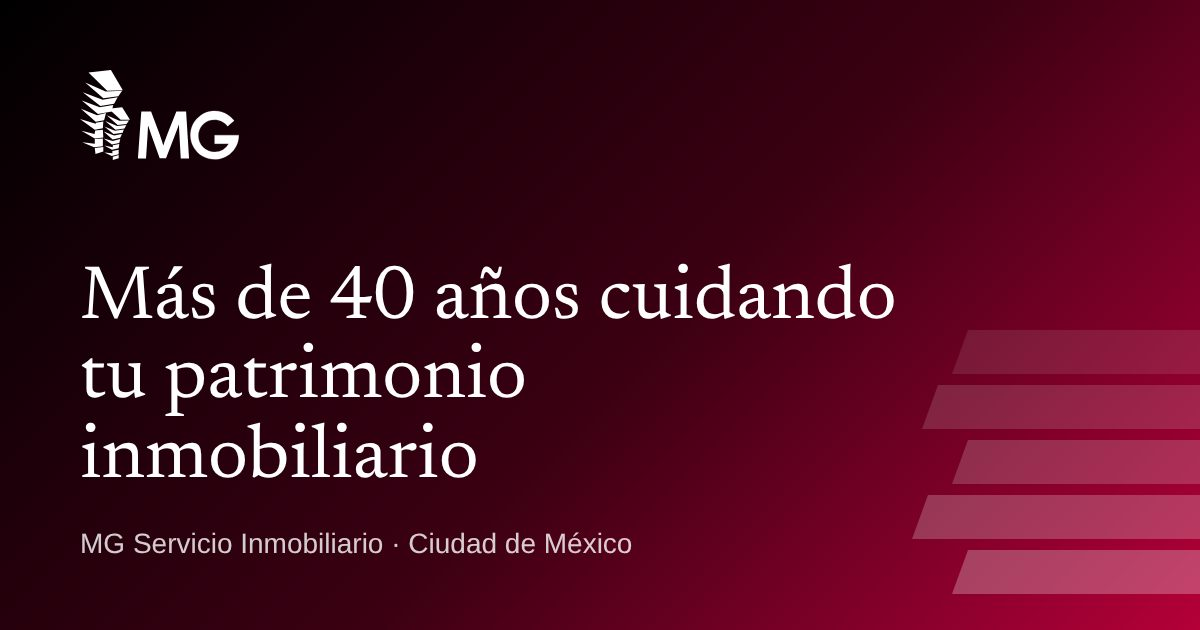
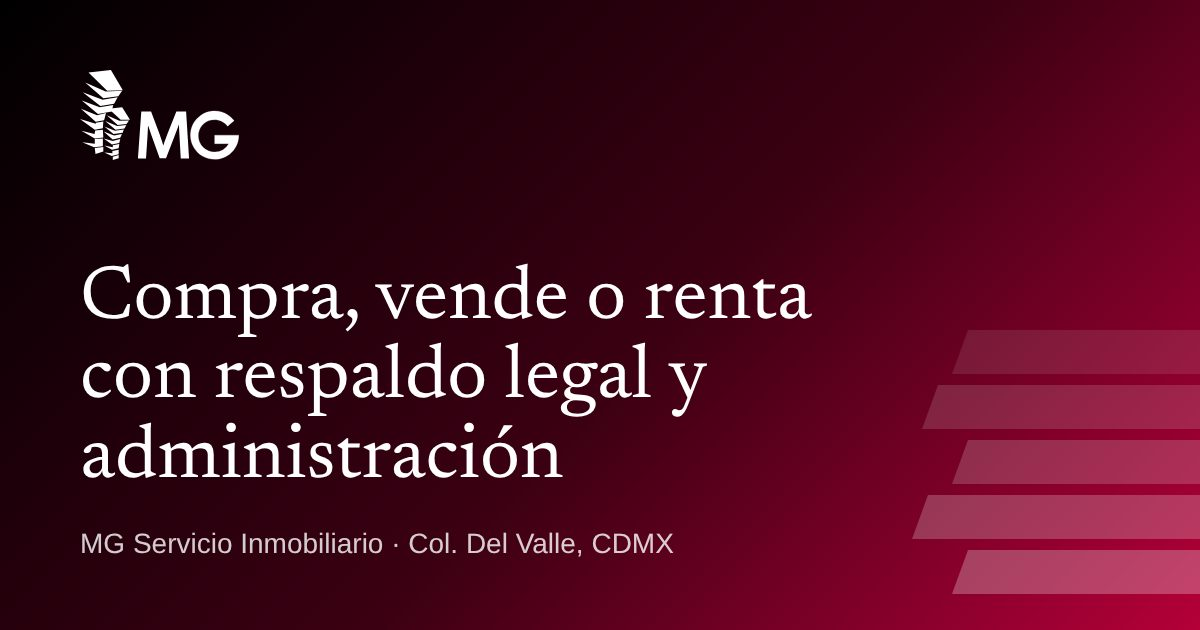
Copy reescrito con buenas prácticas para inmobiliarias
- Subtítulos, servicios, principios, contacto, formulario y estados vacíos más concretos y centrados en quien lee; botones con acción y resultado.
- Menos repeticiones ("40 años" y "de la primera visita a la firma"); misión y presentación de la empresa intactas.
- Title, description, manifest y JSON-LD con CDMX y propuesta clara; imagen para compartir actualizada.
- Hero: franja inferior con oficina, horario y teléfono; el motivo de losas respeta el 100% de pantalla.

Claude-Session: https://claude.ai/code/session_01HwvffBwo3MnvS5shEMdxbJ

Changed region(s): [[0.0617, 0.5429, 0.5858, 0.7841], [0.0617, 0.4222, 0.7708, 0.5429], [0.3392, 0.8444, 0.555, 0.9048]]

diff --git a/src/components/sections/Services.tsx b/src/components/sections/Services.tsx
@@ -8,17 +8,17 @@ const areas = [
     items: [
       {
         title: 'Compra y venta',
-        text: 'Asesoría en operaciones de propiedades residenciales y comerciales.',
-        points: ['Valuación profesional', 'Negociación', 'Documentación legal'],
+        text: 'Te acompañamos a comprar o vender una propiedad residencial o comercial.',
+        points: ['Valuación de la propiedad', 'Negociación', 'Documentación legal'],
       },
       {
         title: 'Renta',
-        text: 'Gestión de propiedades en renta con seguimiento de todo el proceso.',
+        text: 'Si tienes una propiedad para rentar, buscamos inquilino y formalizamos el contrato.',
         points: ['Búsqueda de inquilinos', 'Contratos legales', 'Administración'],
       },
       {
         title: 'Consultoría',
-        text: 'Para inversionistas y desarrolladores inmobiliarios.',
+        text: 'Para quien invierte o desarrolla y necesita datos antes de decidir.',
         points: ['Análisis de mercado', 'Estrategias de inversión', 'Estudios de factibilidad'],
       },
     ],
@@ -29,12 +29,12 @@ const areas = [
     items: [
       {
         title: 'Administración',
-        text: 'Administración de propiedades con mantenimiento y supervisión constante.',
+        text: 'Nos ocupamos de tu propiedad día a día, para que no tengas que hacerlo tú.',
         points: ['Mantenimiento', 'Cobros', 'Reportes mensuales'],
       },
       {
         title: 'Seguros',
-        text: 'Protección para tu patrimonio inmobiliario con seguros especializados.',
+        text: 'Aseguramos tu propiedad y te acompañamos si hay que reclamar.',
         points: ['Seguros de propiedad', 'Cobertura legal', 'Asesoría en reclamaciones'],
       },
     ],
@@ -45,7 +45,7 @@ const areas = [
     items: [
       {
         title: 'Asesoría legal',
-        text: 'Soporte legal especializado en transacciones inmobiliarias.',
+        text: 'Revisamos el papel de la operación antes de que firmes y te acompañamos si surge un conflicto.',
         points: ['Revisión de documentos', 'Trámites notariales', 'Resolución de conflictos'],
       },
     ],
@@ -59,8 +59,7 @@ export default function Services() {
         <Reveal className="max-w-3xl">
           <h2 className="h-section">Servicios</h2>
           <p className="mt-5 text-lg text-graphite">
-            Una sola oficina cubre las tres partes de una operación inmobiliaria. Así no pasas de un despacho a otro entre
-            la visita y la firma.
+            Una operación inmobiliaria tiene tres frentes: cerrar el trato, cuidar el papel y administrar la propiedad después. Aquí los atiende el mismo equipo.
           </p>
         </Reveal>
 
@@ -91,7 +90,7 @@ export default function Services() {
                 <div className="mt-6 border-t border-[#d9d9d9] pt-8">
                   <p className="font-display text-2xl leading-snug">¿No sabes qué necesitas? Cuéntanos tu caso y te decimos por dónde empezar.</p>
                   <a href="#contacto" className="btn btn-ink mt-6">
-                    Cuéntanos tu caso
+                    Pedir orientación
                   </a>
                 </div>
               )}

diff --git a/src/components/sections/Hero.tsx b/src/components/sections/Hero.tsx
@@ -39,11 +39,11 @@ export default function Hero({ featured }: { featured?: PublicProperty }) {
             ))}
           </h1>
           <p className="rise mt-7 max-w-xl text-lg leading-relaxed text-white/85 sm:text-xl" style={{ '--d': '0.45s' } as React.CSSProperties}>
-            Te acompañamos en la compra, venta, renta y administración de tu propiedad, de la primera visita a la firma.
+            Compra, vende o renta con la parte legal y la administración resueltas en una sola oficina de la Col. Del Valle.
           </p>
           <div className="rise mt-10 flex flex-col gap-3 sm:flex-row" style={{ '--d': '0.6s' } as React.CSSProperties}>
             <Link href="/propiedades" className="btn btn-brand">
-              Ver propiedades
+              Ver propiedades disponibles
               <ArrowRight className="arrow size-4" aria-hidden="true" />
             </Link>
             <a
@@ -51,7 +51,7 @@ export default function Hero({ featured }: { featured?: PublicProperty }) {
               {...(wa ? { target: '_blank', rel: 'noopener noreferrer' } : {})}
               className="btn btn-line"
             >
-              {wa ? 'Escribir por WhatsApp' : `Llamar al ${mainPhone.display}`}
+              {wa ? 'Cuéntanos qué buscas' : `Llamar al ${mainPhone.display}`}
             </a>
           </div>
         </div>
@@ -89,24 +89,28 @@ export default function Hero({ featured }: { featured?: PublicProperty }) {
               </div>
             </Link>
           ) : (
-            <Niveles className="mx-auto hidden h-auto w-full max-w-sm lg:block" />
+            <Niveles className="mx-auto hidden h-[min(50svh,28rem)] w-auto lg:block" />
           )}
         </div>
       </div>
 
       <div className="border-t border-white/20">
-        <dl className="container-page grid gap-4 py-5 sm:gap-8 sm:py-7 sm:grid-cols-3 text-sm">
+        <dl className="container-page grid gap-4 py-5 text-sm sm:grid-cols-3 sm:gap-8 sm:py-7">
           <div>
-            <dt className="text-white/75">Trayectoria</dt>
-            <dd className="mt-1 font-display text-2xl">Más de 40 años</dd>
-          </div>
-          <div className="hidden sm:block">
-            <dt className="text-white/75">Áreas</dt>
-            <dd className="mt-1 font-display text-2xl">Inmobiliaria, administrativa y legal</dd>
-          </div>
-          <div className="hidden sm:block">
             <dt className="text-white/75">Oficina</dt>
             <dd className="mt-1 font-display text-2xl">{site.address.lines[0]}, Col. Del Valle</dd>
+          </div>
+          <div className="hidden sm:block">
+            <dt className="text-white/75">Atención en oficina</dt>
+            <dd className="mt-1 font-display text-2xl">{site.hours.label}</dd>
+          </div>
+          <div className="hidden sm:block">
+            <dt className="text-white/75">Teléfono</dt>
+            <dd className="mt-1 font-display text-2xl">
+              <a href={`tel:${mainPhone.tel}`} className="link-line">
+                {mainPhone.display}
+              </a>
+            </dd>
           </div>
         </dl>
       </div>

diff --git a/src/components/sections/Properties.tsx b/src/components/sections/Properties.tsx
@@ -17,7 +17,7 @@ export default function Properties({ properties, total }: { properties: PublicPr
           <div className="max-w-2xl">
             <h2 className="h-section">Propiedades disponibles</h2>
             <p className="mt-5 text-lg text-slate">
-              Cada propiedad tiene su ficha con fotos, superficie y precios. Si una te interesa, pregunta por ella en un toque.
+              Cada ficha trae fotos, superficie y precio. Elige una y pregunta por ella directamente por WhatsApp o teléfono.
             </p>
           </div>
           {total > 0 && (
@@ -31,14 +31,14 @@ export default function Properties({ properties, total }: { properties: PublicPr
         {properties.length === 0 ? (
           <Reveal className="mt-14 grid gap-8 border-t-2 border-ink pt-10 lg:grid-cols-12">
             <div className="lg:col-span-7">
-              <h3 className="text-3xl sm:text-4xl">Estamos actualizando el catálogo.</h3>
+              <h3 className="text-3xl sm:text-4xl">El catálogo en línea se está actualizando.</h3>
               <p className="mt-4 max-w-xl text-lg text-slate">
-                Hoy las propiedades se atienden directamente. Dinos qué buscas y te mostramos lo que tenemos disponible.
+                Dinos si quieres comprar o rentar, en qué zona y con qué presupuesto, y te decimos qué tenemos disponible.
               </p>
             </div>
             <div className="flex flex-col gap-3 sm:flex-row lg:col-span-5 lg:items-start lg:justify-end">
               <a href="#contacto" className="btn btn-ink">
-                Escribirnos
+                Contarnos qué busco
               </a>
               <a
                 href={wa ?? `tel:${mainPhone.tel}`}
@@ -62,7 +62,7 @@ export default function Properties({ properties, total }: { properties: PublicPr
             {total > properties.length && (
               <Reveal className="mt-14 flex flex-col items-start justify-between gap-5 border-t border-line pt-8 sm:flex-row sm:items-center">
                 <p className="text-lg text-graphite">
-                  Mostramos {properties.length} de {total} propiedades publicadas.
+                  Estas son las {properties.length} más recientes de {total} propiedades publicadas.
                 </p>
                 <Link href="/propiedades" className="btn btn-brand">
                   Ver todo el catálogo

diff --git a/src/components/sections/Contact.tsx b/src/components/sections/Contact.tsx
@@ -62,7 +62,7 @@ export default function Contact() {
         <Reveal className="max-w-3xl">
           <h2 className="h-section">Contacto</h2>
           <p className="mt-5 text-lg text-slate">
-            Danos la oportunidad de conocerte, estamos seguros de poder ayudarte. Escríbenos o llámanos en horario de oficina.
+            Escríbenos o llámanos en horario de oficina y te decimos cómo podemos ayudarte con tu compra, venta, renta o administración.
           </p>
         </Reveal>
 
@@ -129,7 +129,7 @@ export default function Contact() {
 
           <Reveal delay={0.12} className="order-1 lg:sticky lg:top-28 lg:order-2 lg:col-span-7 lg:self-start">
             <form ref={formRef} action={action} noValidate className="border-t-2 border-ink pt-6" aria-describedby="contact-status">
-              <h3 className="font-sans text-lg font-semibold tracking-normal">Envíanos un mensaje</h3>
+              <h3 className="font-sans text-lg font-semibold tracking-normal">Déjanos tu consulta</h3>
 
               <div
                 ref={statusRef}
@@ -161,7 +161,7 @@ export default function Contact() {
                 </div>
                 <div className="sm:col-span-2">
                   <Field id="message" label="¿En qué podemos ayudarte?" error={err.message}>
-                    <textarea id="message" name="message" rows={4} required defaultValue={v?.message} aria-invalid={!!err.message} aria-describedby={err.message ? 'message-error' : undefined} className="field resize-y" placeholder="Cuéntanos si buscas comprar, vender, rentar o administrar." />
+                    <textarea id="message" name="message" rows={4} required defaultValue={v?.message} aria-invalid={!!err.message} aria-describedby={err.message ? 'message-error' : undefined} className="field resize-y" placeholder="Por ejemplo: busco rentar un departamento en la Del Valle, hasta $20,000 al mes." />
                   </Field>
                 </div>
               </div>
@@ -196,7 +196,7 @@ export default function Contact() {
                     Enviando…
                   </>
                 ) : (
-                  'Enviar mensaje'
+                  'Enviar mi consulta'
                 )}
               </button>
             </form>

diff --git a/src/app/propiedades/page.tsx b/src/app/propiedades/page.tsx
@@ -88,7 +88,7 @@ export default async function CatalogPage({ searchParams }: Props) {
                   ? `${filtered.length} ${filtered.length === 1 ? 'propiedad publicada' : 'propiedades publicadas'}${
                       pages > 1 ? `. Página ${page} de ${pages}.` : '.'
                     }`
-                  : 'Pregunta por lo que buscas y te mostramos lo disponible.'}
+                  : 'Cuéntanos qué buscas y te decimos qué tenemos disponible.'}
               </p>
             </div>
 
@@ -122,15 +122,17 @@ export default async function CatalogPage({ searchParams }: Props) {
           <Reveal className="mt-12 grid gap-8 lg:grid-cols-12">
             <div className="lg:col-span-7">
               <h2 className="text-3xl sm:text-4xl">
-                {all.length === 0 ? 'Estamos actualizando el catálogo.' : 'No hay propiedades en esta categoría por ahora.'}
+                {all.length === 0
+                  ? 'El catálogo en línea se está actualizando.'
+                  : `No hay propiedades ${operation === 'renta' ? 'en renta' : 'en venta'} publicadas por ahora.`}
               </h2>
               <p className="mt-4 max-w-xl text-lg text-slate">
-                Dinos qué buscas y te decimos qué tenemos disponible, incluso lo que aún no está publicado.
+                Dinos zona, presupuesto y si quieres comprar o rentar, y te decimos qué tenemos disponible, incluso lo que aún no está publicado.
               </p>
             </div>
             <div className="flex flex-col gap-3 sm:flex-row lg:col-span-5 lg:justify-end">
               <Link href="/#contacto" className="btn btn-ink">
-                Escribirnos
+                Contarnos qué busco
               </Link>
               <a
                 href={wa ?? `tel:${mainPhone.tel}`}

diff --git a/src/app/propiedades/[slug]/page.tsx b/src/app/propiedades/[slug]/page.tsx
@@ -124,10 +124,12 @@ export default async function PropertyPage({ params }: Props) {
         </div>
 
         <div className="container-page mt-16 grid gap-12 lg:grid-cols-12 lg:gap-16">
-          <div className="lg:col-span-7">
-            <h2 className="text-3xl sm:text-4xl">Descripción</h2>
-            <p className="mt-5 whitespace-pre-line text-lg leading-relaxed text-graphite">{property.description}</p>
-          </div>
+          {property.description && (
+            <div className="lg:col-span-7">
+              <h2 className="text-3xl sm:text-4xl">Descripción</h2>
+              <p className="mt-5 whitespace-pre-line text-lg leading-relaxed text-graphite">{property.description}</p>
+            </div>
+          )}
           {property.amenities.length > 0 && (
             <div className="lg:col-span-5">
               <h2 className="text-3xl sm:text-4xl">Características</h2>
@@ -148,7 +150,7 @@ export default async function PropertyPage({ params }: Props) {
         <section aria-labelledby="otras" className="bg-mist py-20 md:py-28">
           <div className="container-page">
             <h2 id="otras" className="text-3xl sm:text-4xl">
-              Otras propiedades
+              Otras propiedades disponibles
             </h2>
             <ul className="mt-10 grid gap-x-8 gap-y-14 sm:grid-cols-2 lg:grid-cols-3">
               {others.map((p) => (

diff --git a/src/components/sections/About.tsx b/src/components/sections/About.tsx
@@ -4,10 +4,9 @@ import CountUp from '@/components/ui/CountUp';
 import ScrollWords from '@/components/ui/ScrollWords';
 
 const principles = [
-  { title: 'Cuatro décadas en el mercado', text: 'Más de 40 años de trabajo en operaciones inmobiliarias en México.' },
-  { title: 'Tres áreas en un mismo equipo', text: 'Profesionistas del área inmobiliaria, administrativa y legal.' },
-  { title: 'De la primera visita a la firma', text: 'Compra, venta, renta y administración de propiedades.' },
-  { title: 'Atención directa', text: 'Soluciones adaptadas a cada cliente, con trato directo en nuestra oficina.' },
+  { title: 'Un solo equipo', text: 'Lo inmobiliario, lo administrativo y lo legal se trabajan juntos en tu operación.' },
+  { title: 'Trato en persona', text: 'Te atendemos en nuestra oficina de la Col. Del Valle, de lunes a viernes.' },
+  { title: 'También después de la firma', text: 'Administración de la propiedad y seguros cuando ya cerraste la operación.' },
 ];
 
 export default function About() {

diff --git a/src/components/Footer.tsx b/src/components/Footer.tsx
@@ -19,9 +19,7 @@ export default function Footer() {
         <div className="lg:col-span-6">
           <Logo variant="light" className="h-14" />
           <p className="mt-8 max-w-md text-[0.95rem] leading-relaxed text-white/80">
-            Somos un grupo de profesionistas con más de 40 años de experiencia en el área inmobiliaria, administrativa y
-            legal, con el propósito de ayudar a nuestros clientes en operaciones de compra, venta, renta y administración
-            inmobiliaria.
+            Asesoría inmobiliaria, administrativa y legal para quien compra, vende, renta o administra una propiedad en la Ciudad de México.
           </p>
           <div className="mt-8 flex gap-3">
             <a

diff --git a/src/app/layout.tsx b/src/app/layout.tsx
@@ -23,9 +23,9 @@ const grotesk = localFont({
   display: 'swap',
 });
 
-const title = 'MG Servicio Inmobiliario | Compra, venta y renta en México';
+const title = 'MG Servicio Inmobiliario | Compra, venta y renta en CDMX';
 const description =
-  'Más de 40 años en asesoría inmobiliaria, administrativa y legal. Compra, venta, renta y administración de propiedades en la Ciudad de México.';
+  'Inmobiliaria en la Col. Del Valle, CDMX. Compra, vende o renta con respaldo legal y administración de tu propiedad en una sola oficina. Llámanos o escríbenos.';
 const noindex = process.env.NEXT_PUBLIC_NOINDEX === 'true';
 
 export const metadata: Metadata = {

diff --git a/src/app/actions/contact.ts b/src/app/actions/contact.ts
@@ -55,7 +55,7 @@ export async function sendContact(_prev: ContactState, formData: FormData): Prom
 
   // Anti-spam: campo oculto lleno = bot; se responde "éxito" sin enviar nada.
   if (String(formData.get('website') ?? '')) {
-    return { status: 'success', message: 'Gracias, recibimos tu mensaje.' };
+    return { status: 'success', message: 'Recibimos tu mensaje, gracias. En cuanto lo revisemos te contactamos por teléfono o correo.' };
   }
 
   const parsed = schema.safeParse(raw);

diff --git a/src/app/manifest.ts b/src/app/manifest.ts
@@ -4,7 +4,7 @@ export default function manifest(): MetadataRoute.Manifest {
   return {
     name: 'MG Servicio Inmobiliario',
     short_name: 'MGSI',
-    description: 'Más de 40 años en asesoría inmobiliaria, administrativa y legal.',
+    description: 'Inmobiliaria en la Col. Del Valle, CDMX: compra, venta, renta y administración de propiedades.',
     lang: 'es-MX',
     start_url: '/',
     display: 'standalone',

diff --git a/src/lib/seo.ts b/src/lib/seo.ts
@@ -69,7 +69,7 @@ export function homePageGraph(properties: PublicProperty[]) {
         '@type': 'WebPage',
         '@id': `${siteUrl}/#webpage`,
         url: siteUrl,
-        name: `${site.name} | Compra, venta y renta de inmuebles`,
+        name: `${site.name} | Compra, venta y renta en CDMX`,
         isPartOf: { '@id': SITE_ID },
         about: { '@id': ORG_ID },
         inLanguage: site.locale,
